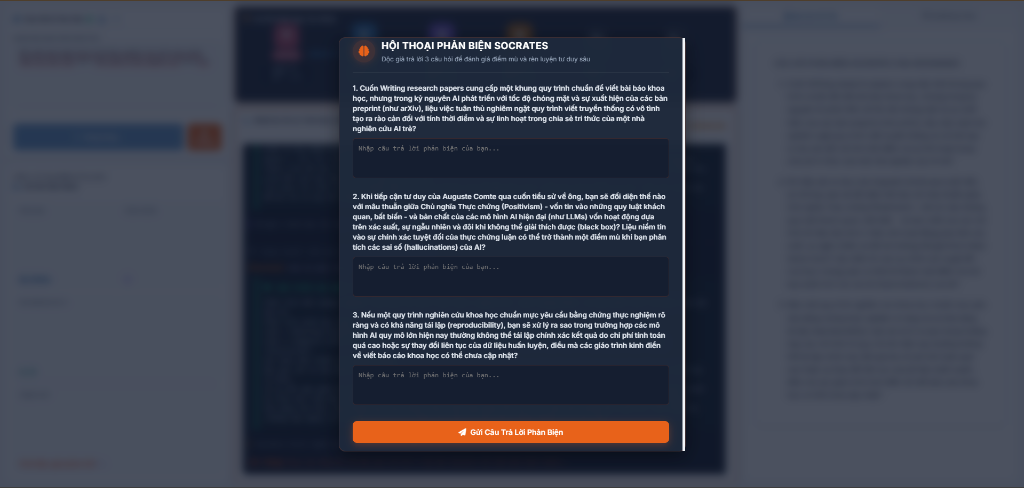
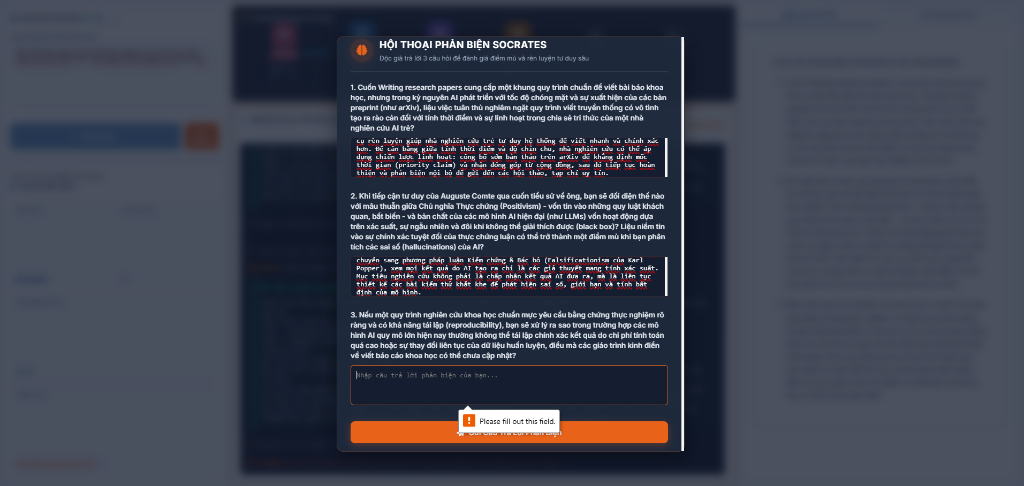
docs: update Step 3 Socratic validation alert and Step 4 Critic Agent analysis screenshots in README.md
- Replaced 3_socratic_modal.png with validation alert screenshot (Please fill out this field)
- Replaced 4_running_state.png with Critic Agent 05 (Node 5/6) running screenshot showing Thinking Process and Cognitive Blind Spots analysis (Idealization Bias, Theoretical Overconfidence, Implementation Blind Spot)
- Updated README.md UI walkthrough descriptions for Step 3 & Step 4

diff --git a/README.md b/README.md
@@ -99,21 +99,26 @@ Dưới đây là chi tiết từng bước vận hành thực tế của giao d
 
 ---
 
-### 3️⃣ Bước 3: Trạng Thái Đang Chạy & Luồng SSE Stream (`4_running_state.png`)
-![Trạng Thái Đang Chạy](docs/screenshots/4_running_state.png)
+### 3️⃣ Bước 3: Đối Thoại Phản Biện Socrates (Socratic Interactive Modal - `3_socratic_modal.png`)
+![Hội Thoại Phản Biện Socrates](docs/screenshots/3_socratic_modal.png)
 
-- **Mô tả giao diện**: Chỉ số trạng thái chuyển sang **"Đang chạy..."** màu cam rực rỡ. Nút kích hoạt chuyển thành nút `🔴 Dừng` màu cam. Các icon tác nhân trên sơ đồ sáng đèn theo thứ tự tuần tự, cập nhật thời gian xử lý và số lượng token theo thời gian thực (ví dụ: `gemma4:31b · 15.306s · 74.5 tk/s · 1,141 tk`).
-- **Cơ chế vận hành**: 
-  - Khung giữa (Console Log) hiển thị khối **Quá trình suy nghĩ (Thinking Process)** trong giao diện màu xanh đen học thuật, theo dõi chi tiết từng bước lập luận của Agent.
-  - Phía khung bên phải, luồng truyền phát sự kiện **SSE (Server-Sent Events)** truyền phát từng từ (word-by-word) mượt mà hiển thị 3 Câu Hỏi Phản Biện Socratic được sinh tự động dựa trên hồ sơ độc giả và chủ đề nghiên cứu.
+- **Mô tả giao diện**: Khi tác nhân **Socrates (04)** hoàn tất việc đặt câu hỏi, một cửa sổ Modal nổi lên với tiêu đề **HỘI THOẠI PHẢN BIỆN SOCRATES** hiển thị **3 Câu Hỏi Phản Biện Học Thuật** sinh tự động theo thời gian thực dựa trên hồ sơ cá nhân độc giả và chủ đề nghiên cứu (ví dụ: *Cuốn Writing research papers trong kỷ nguyên AI*, *Chủ nghĩa Thực chứng của Auguste Comte*, *Tính tái lập thí nghiệm trong AI*).
+- **Cơ chế kiểm soát & vận hành**:
+  - **Rào chắn bắt buộc phản biện (HTML5 Required Validation)**: Hệ thống tạm dừng pipeline để buộc độc giả tự suy ngẫm. Nếu sinh viên bấm nút `🚀 Gửi Câu Trả Lời Phản Biện` khi chưa nhập đủ 3 câu trả lời, trình duyệt sẽ hiển thị cảnh báo `Please fill out this field`, bảo đảm độc giả thực sự tham gia đối thoại phản biện chủ động.
+  - **Chuyển tiếp Phase 2**: Sau khi nhập đầy đủ câu trả lời, sinh viên nhấn gửi để chuyển toàn bộ dữ liệu đối thoại sang Tác nhân Phản biện và Biên soạn.
 
 ---
 
-### 4️⃣ Bước 4: Đối Thoại Phản Biện Socrates (Socratic Interactive Modal)
-![Hội Thoại Phản Biện Socrates](docs/screenshots/3_socratic_modal.png)
+### 4️⃣ Bước 4: Trạng Thái Đang Chạy - Tác Nhân Phản Biện (Running State - Critic Agent - `4_running_state.png`)
+![Trạng Thái Đang Chạy - Tác Nhân Phản Biện](docs/screenshots/4_running_state.png)
 
-- **Mô tả giao diện**: Khi tác nhân **Socrates (04)** hoàn tất việc tạo câu hỏi, một cửa sổ Modal nổi lên hiển thị **3 Câu Hỏi Phản Biện Socratic** độc đáo giúp sinh viên tự đánh giá điểm mù nhận thức.
-- **Cơ chế vận hành**: Hệ thống tạm dừng pipeline để chờ sinh viên tự suy ngẫm và nhập câu trả lời vào 3 ô văn bản tối màu. Sau khi nhấn `🚀 Gửi Câu Trả Lời Phản Biện`, Tác nhân **Phản Biện (Critic Agent 05)** và Tác nhân **Biên Soạn (Reporter Agent 06)** sẽ tiếp nhận các câu trả lời này để phân tích thiên kiến nhận thức, dựng ma trận Checkpoint tự vấn và biên soạn báo cáo khoa học hoàn chỉnh.
+- **Mô tả giao diện**: Trạng thái hiển thị **"Đang chạy..."** màu cam. Tác nhân **Phản Biện (Critic Agent 05 / Node 5/6)** sáng đèn màu xanh lá mạ trên sơ đồ phối hợp tác nhân (`gemma4:31b · Phase 2`). Khung bên phải hiển thị real-time các câu hỏi Socratic và khung giữa hiển thị nhật ký xử lý.
+- **Cơ chế vận hành**:
+  - **Phân tích Quá trình suy nghĩ (Thinking Process)**: Khung Console Log hiển thị khối tư duy màu xanh lục bảo tối, phân tích trực tiếp chất lượng câu trả lời phản biện của độc giả (sinh viên Nguyễn Tiến Đạt).
+  - **Nhận diện Điểm mù nhận thức (Cognitive Blind Spots) & Thiên kiến**: Agent 05 chỉ ra các rủi ro tư duy chiều sâu của sinh viên như:
+    - 🧠 *Thiên kiến lý tưởng hóa (Idealization Bias)*: Xu hướng tin tưởng tuyệt đối vào quy trình Open Science mà bỏ qua áp lực thương mại hóa và công bố quốc tế (`publish or perish`).
+    - 📚 *Tự tin quá mức vào lý thuyết (Theoretical Overconfidence)*: Việc chuyển dịch tư duy từ Chủ nghĩa Thực chứng sang Chủ nghĩa Bác bỏ (Karl Popper) nhưng coi thường tri thức trực giác.
+    - ⚙️ *Điểm mù về tính thực thi (Implementation Blind Spot)*: Nhầm lẫn giữa giải pháp logic lý thuyết và giới hạn tài nguyên tính toán thực tế (Compute Power / Hardware resources).
 
 ---
 